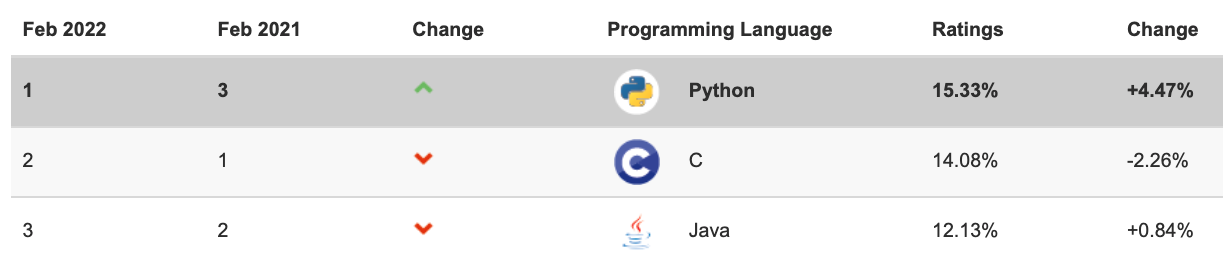
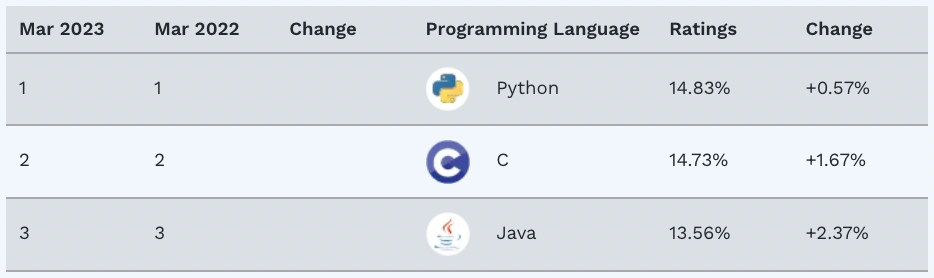
Fix TIOBE

diff --git a/core/introduction/python.rst b/core/introduction/python.rst
@@ -85,12 +85,12 @@ De igual modo son muchas las empresas, instituciones y organismos que utilizan P
 
 Existen ránkings y estudios de mercado que sitúan a Python como uno de los lenguajes más *usados* y la vez, más *amados* dentro del mundo del desarrollo de software.
 
-En el momento de la escritura de este documento, la última actualización del `Índice TIOBE`_ es de *febrero de 2022* en el que Python ocupaba el **primer lugar de los lenguajes de programación más usados**, por delante de *C* y *Java*.
+En el momento de la escritura de este documento, la última actualización del `Índice TIOBE`_ es de *marzo de 2023* en el que Python ocupaba el **primer lugar de los lenguajes de programación más usados**, por delante de *C* y *Java*.
 
 .. figure:: img/tiobe.png
     :align: center
     
-    Índice TIOBE 2022
+    Índice TIOBE 2023
 
 Igualmente en la `encuesta a desarrolladores de Stack Overflow`_ *hecha en 2022*, Python ocupaba el **cuarto puesto de los lenguajes de programación más populares**, sólo por detrás de *Javascript*, *HTML/CSS* y *SQL*:
 
